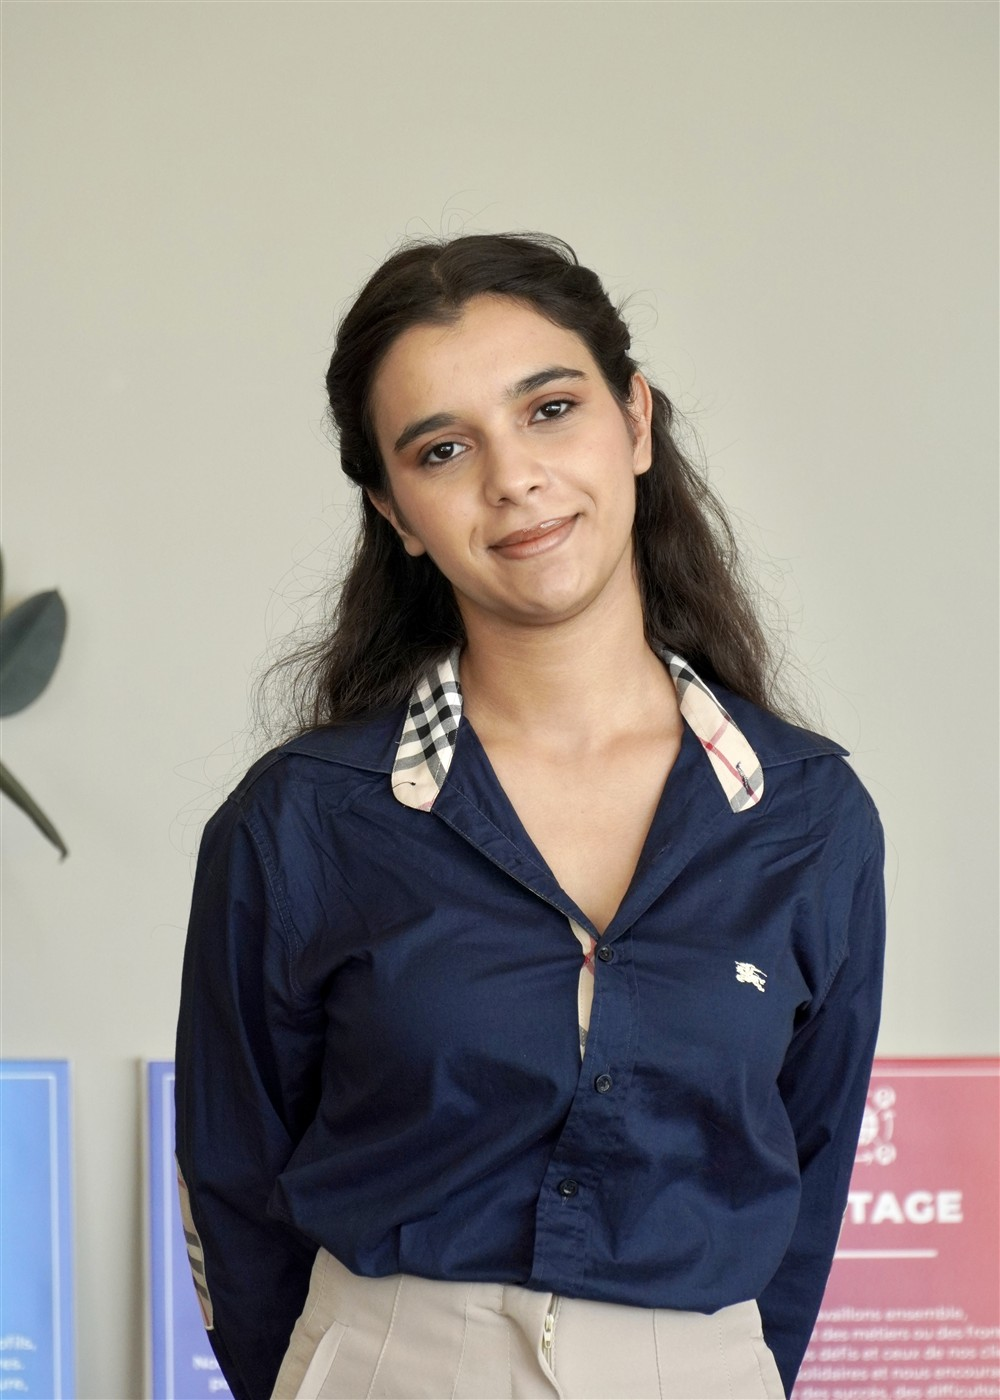
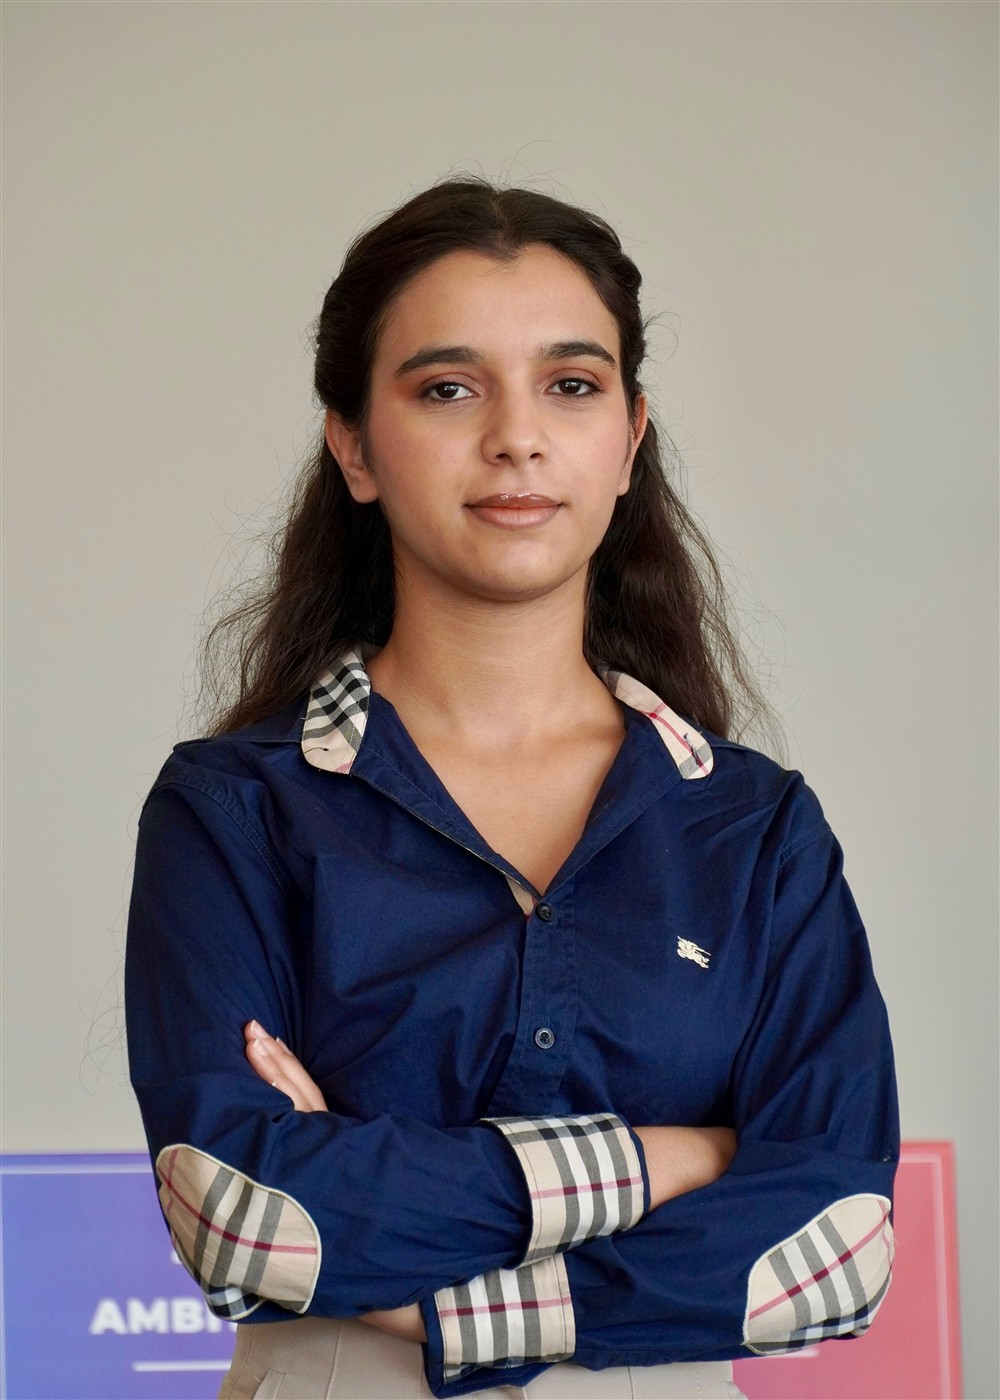
Replace Asmae portrait and align framing

diff --git a/apps/web/src/screens/Desktop/sections/TeamShowcaseSection/TeamShowcaseSection.tsx b/apps/web/src/screens/Desktop/sections/TeamShowcaseSection/TeamShowcaseSection.tsx
@@ -21,7 +21,7 @@ const portraitFrames: Record<string, { file: string; x: number; y: number; width
   "Mirette Moawad": { file: "mirette", x: 210, y: 93, width: 924, height: 1386 },
   "Amadou Ngam": { file: "amadou", x: 235, y: 105, width: 946, height: 1419 },
   "Aicha Dridi": { file: "aicha", x: 142, y: 43, width: 1016, height: 1524 },
-  "Asmae Karmouchi": { file: "asmae", x: 265, y: 222, width: 851, height: 1276 },
+  "Asmae Karmouchi": { file: "asmae", x: 196, y: 145, width: 914, height: 1371 },
   "Jermiah Jerome": { file: "jermiah", x: 208, y: 91, width: 946, height: 1419 },
 };
 
